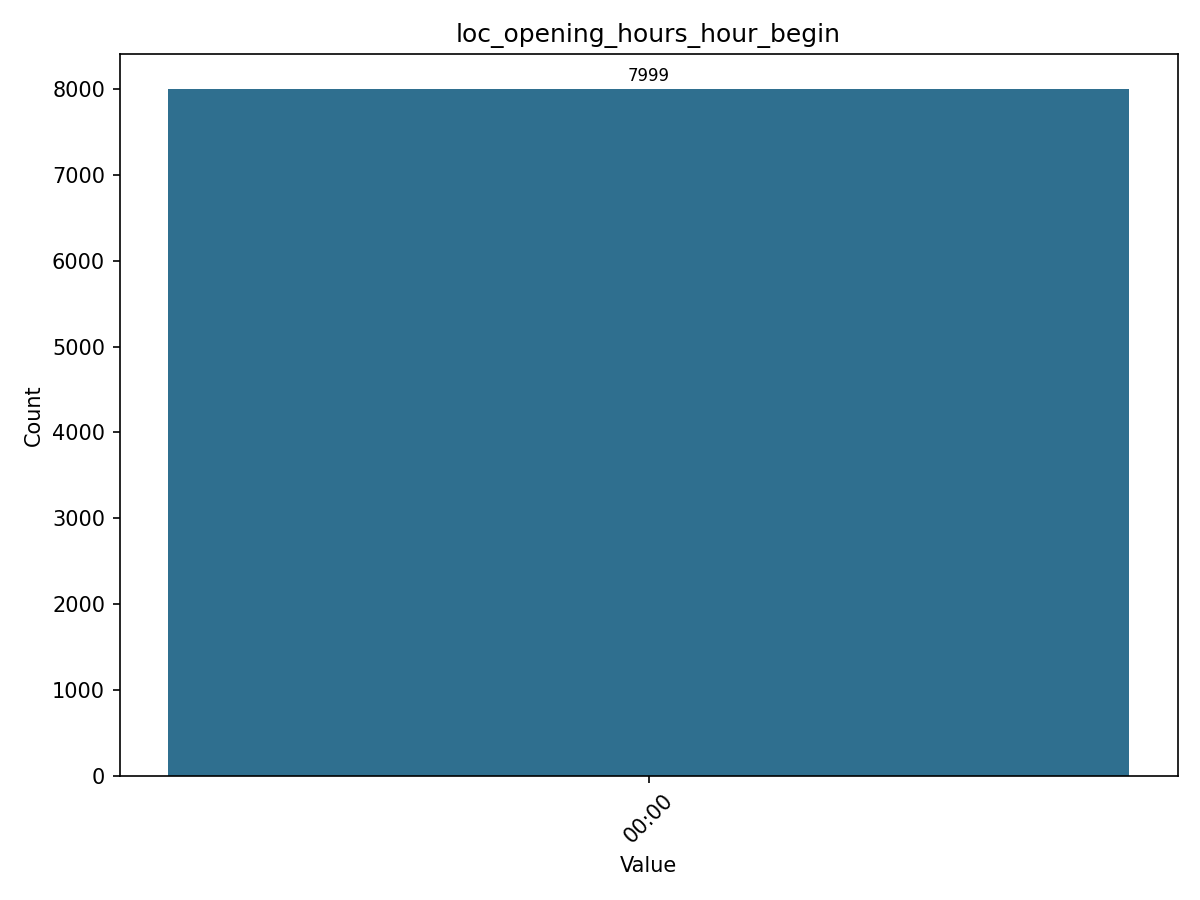
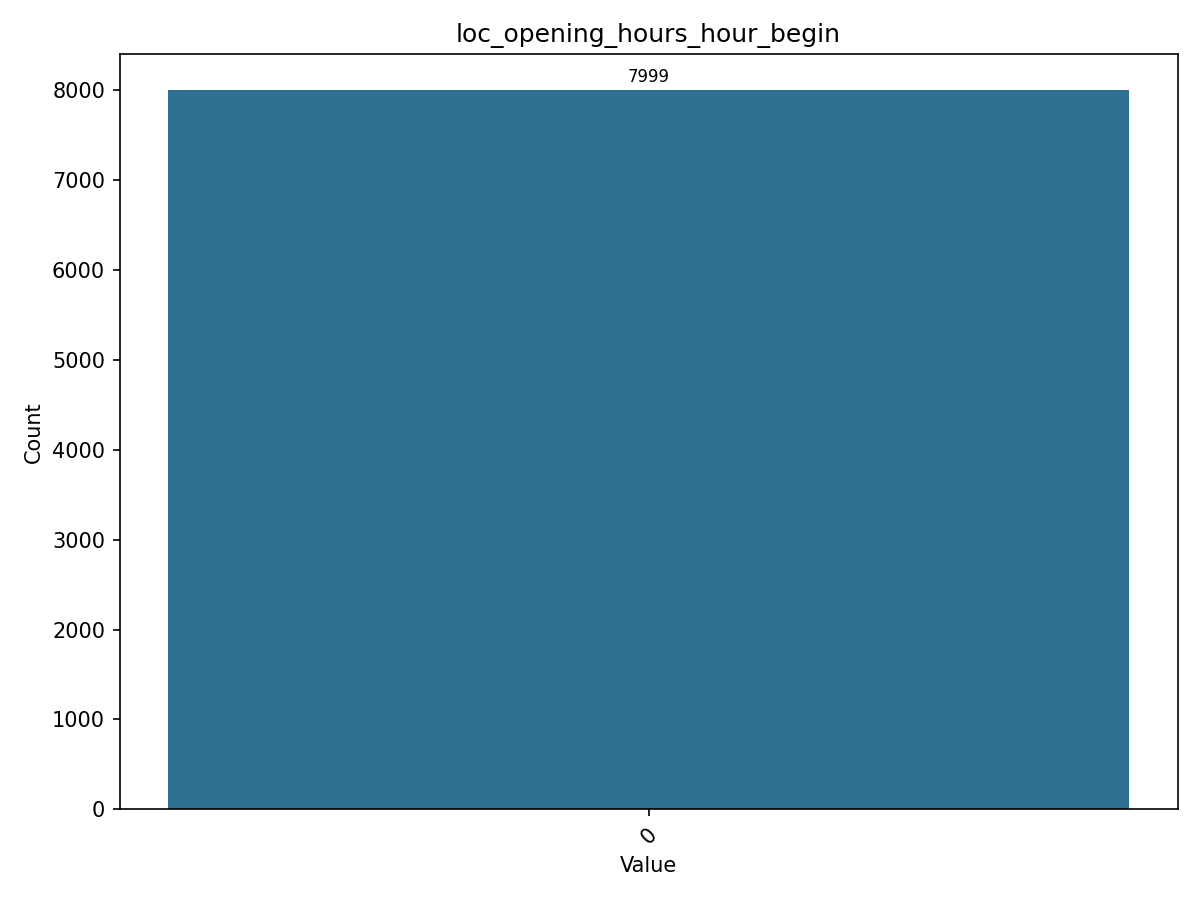
feat(data): replace loc_opening_hours_hour to minutes

diff --git a/src/data/build_features.py b/src/data/build_features.py
@@ -43,6 +43,32 @@ def preprocess_locations(loc_df: pd.DataFrame) -> pd.DataFrame:
         loc_df["loc_last_updated"], errors="coerce", utc=True
     )
 
+    time_cols = [
+        "loc_opening_hours_hour_begin",
+        "loc_opening_hours_hour_end",
+    ]
+
+    for col in time_cols:
+        if col not in loc_df.columns:
+            continue
+
+        # Normalize to minutes since midnight, treating 24:00 as 1440.
+        normalized = loc_df[col].astype(str).str.strip()
+        normalized = normalized.replace(
+            {
+                "24:00": "24:00",
+                "0:00": "00:00",
+            }
+        )
+        times = pd.to_datetime(
+            normalized.replace({"24:00": "00:00"}),
+            format="%H:%M",
+            errors="coerce",
+        )
+        minutes = times.dt.hour * 60 + times.dt.minute
+        minutes = minutes.where(normalized != "24:00", other=1440)
+        loc_df[col] = minutes
+
     loc_df = (
         loc_df.sort_values(["loc_id", "loc_last_updated_parsed"]).drop_duplicates(
             subset=["loc_id", "loc_last_updated"], keep="last"
